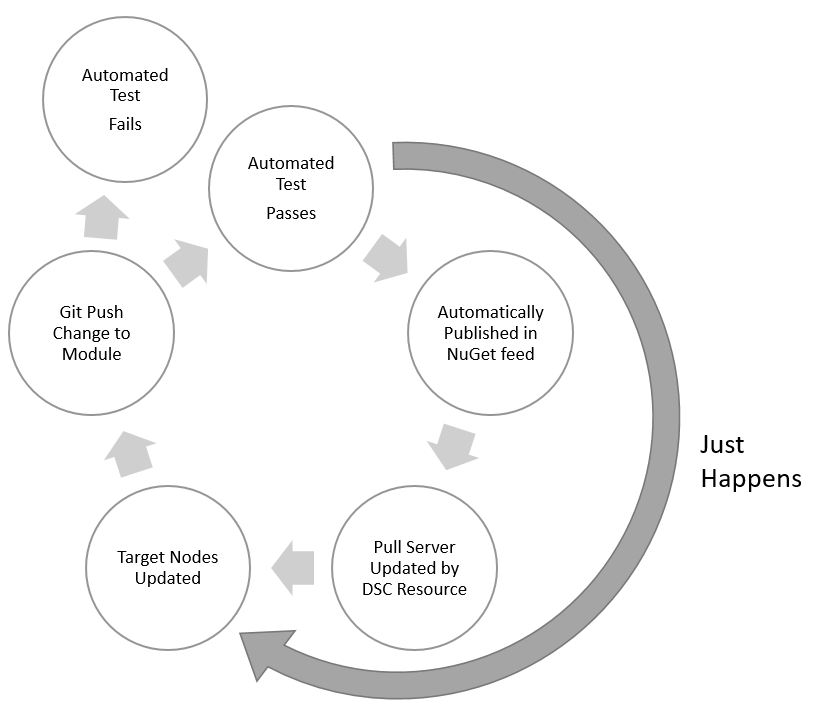
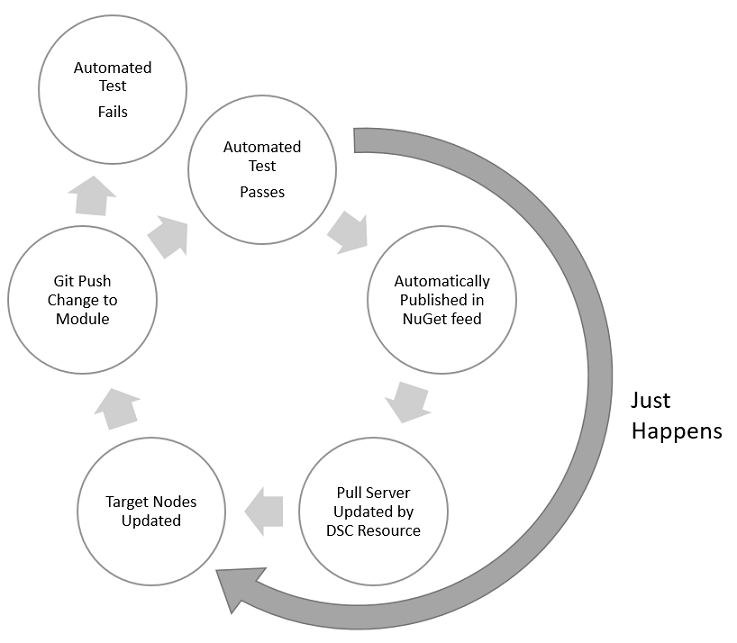
reduce image size

diff --git a/README.md b/README.md
@@ -15,7 +15,7 @@ Adding this script to an existing set of tools helps enable processes for DSC au
 
 **Continuous Delivery** - Right now the project only automates build.  At minimum the project would also need to include automating test of each module using [Pester](https://github.com/pester/Pester) or something like [Test-xDscResource](https://gallery.technet.microsoft.com/scriptcenter/xDscResourceDesigne-Module-22eddb29).  Additional work could include test scripts to automate module changes using VM's in Azure before a Push.
 
-This is the goal
+This is the goal:
 ![alt img](https://github.com/mgreenegit/ModuleDev/blob/master/Resources/Cycle.png "Just Happens")
 
 ## Build Script
